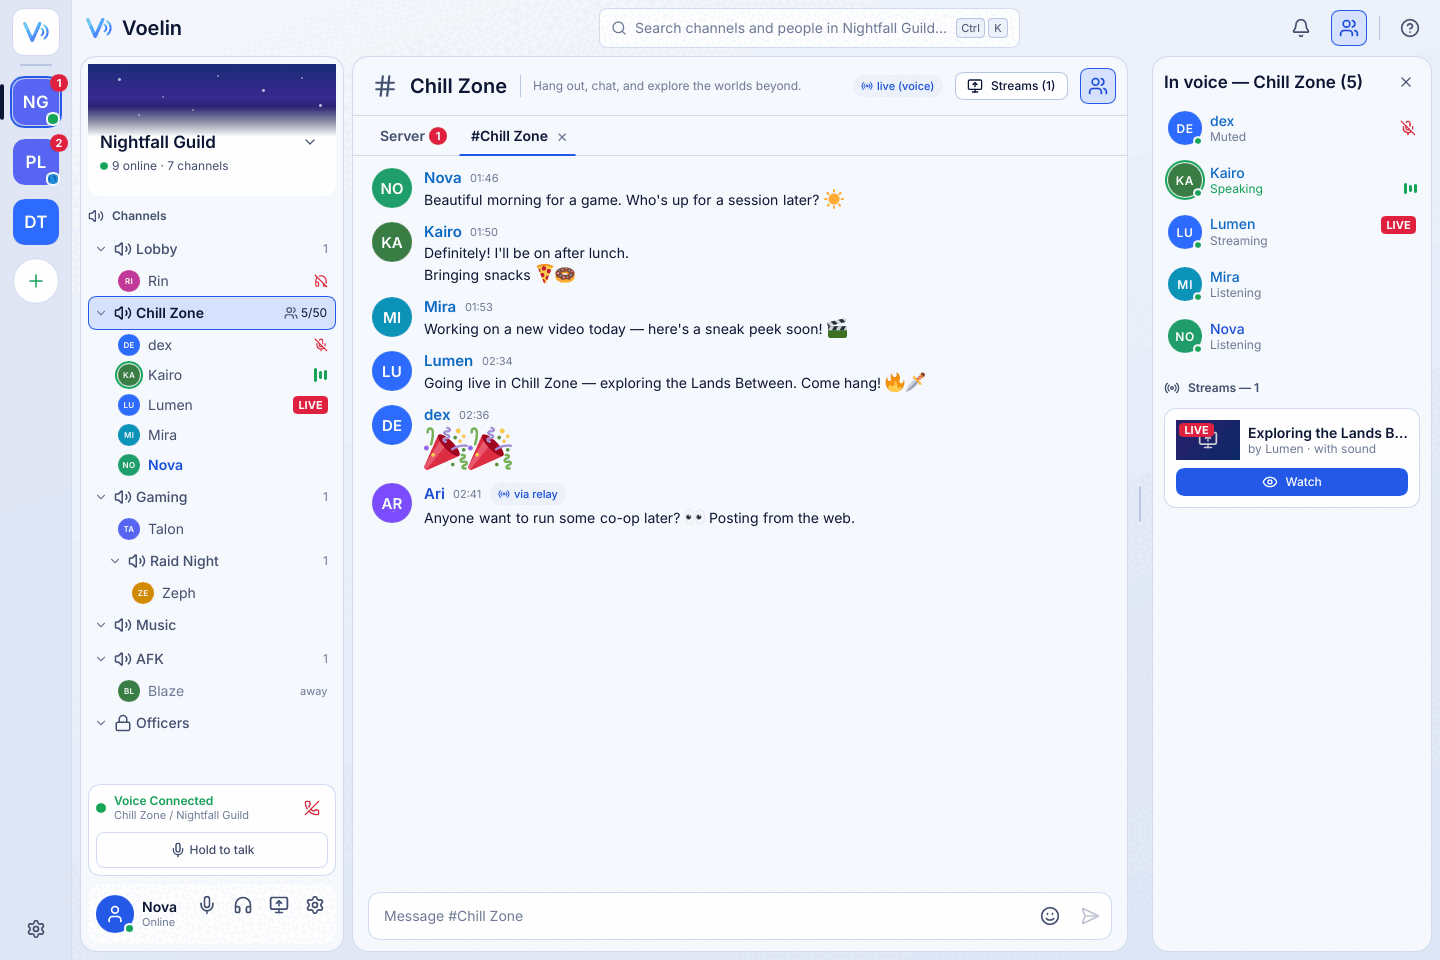
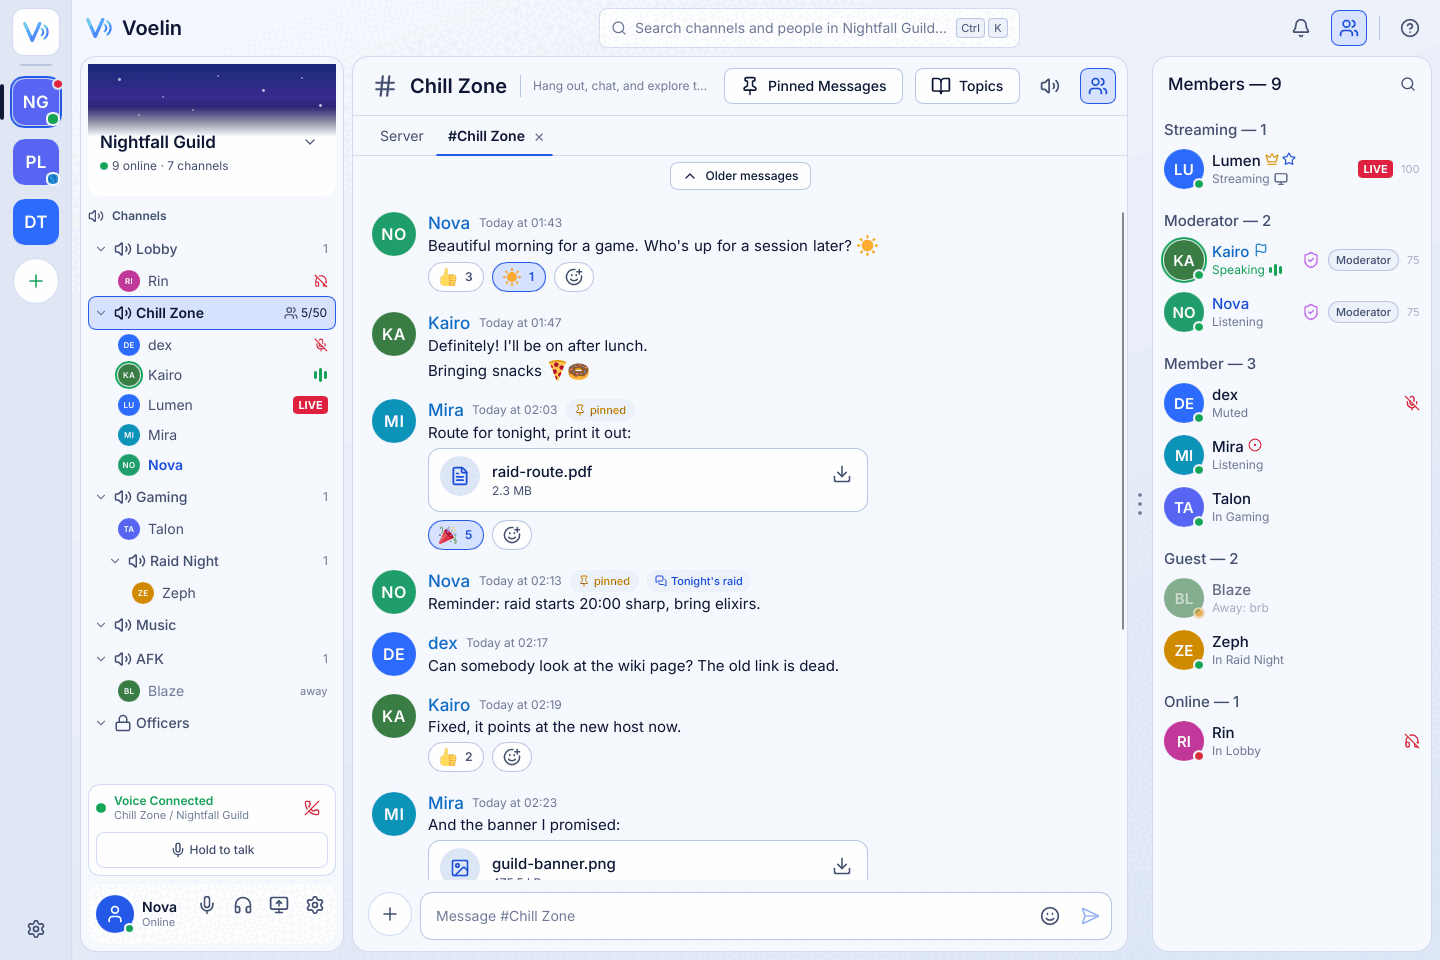
voelin-ui: new screenshots of the server screens
The pictures in docs/screenshots/ showed the server page before the
design's layout. They are taken again with scripts/shots.sh, and the new
screens get their own: the voice channel, the pins, the topics, an open
topic, the member card and the stream popped out.

`VOELIN_OPEN=topic:<id>` now fills the sample topic as the gateway would
when it is opened (it was answered once at start and then cleared), and
the top bar's members button also closes an open drawer, like the chat
header's.

diff --git a/crates/voelin-ui/src/dev.rs b/crates/voelin-ui/src/dev.rs
@@ -153,7 +153,13 @@ pub(crate) fn start(ui: &MainWindow, switches: &Switches) -> Running {
 			"pins" => nav.invoke_show_pins(true),
 			"topics" => nav.invoke_show_topics(true),
 			"topic" => {
-				with_app(|app| app.open_topic(arg.parse().unwrap_or(1)));
+				with_app(|app| {
+					app.open_topic(arg.parse().unwrap_or(1));
+					// No gateway answers in demo mode.
+					if switches.demo_ui {
+						demo_topic(app);
+					}
+				});
 			}
 			"member" => {
 				with_app(|app| app.open_first_member());
@@ -640,8 +646,14 @@ fn demo_chat(app: &mut App, session: u64) {
 			],
 		},
 	});
+}
+
+/// The messages of the sample topic, as the gateway answers when it is
+/// opened.
+fn demo_topic(app: &mut App) {
+	let now = chrono::Utc::now().timestamp_millis();
 	app.handle_event(Event::Gateway {
-		session,
+		session: DEMO as u64,
 		update: GatewayUpdate::TopicHistory {
 			target: ChatTarget::Channel(2),
 			topic: 1,
